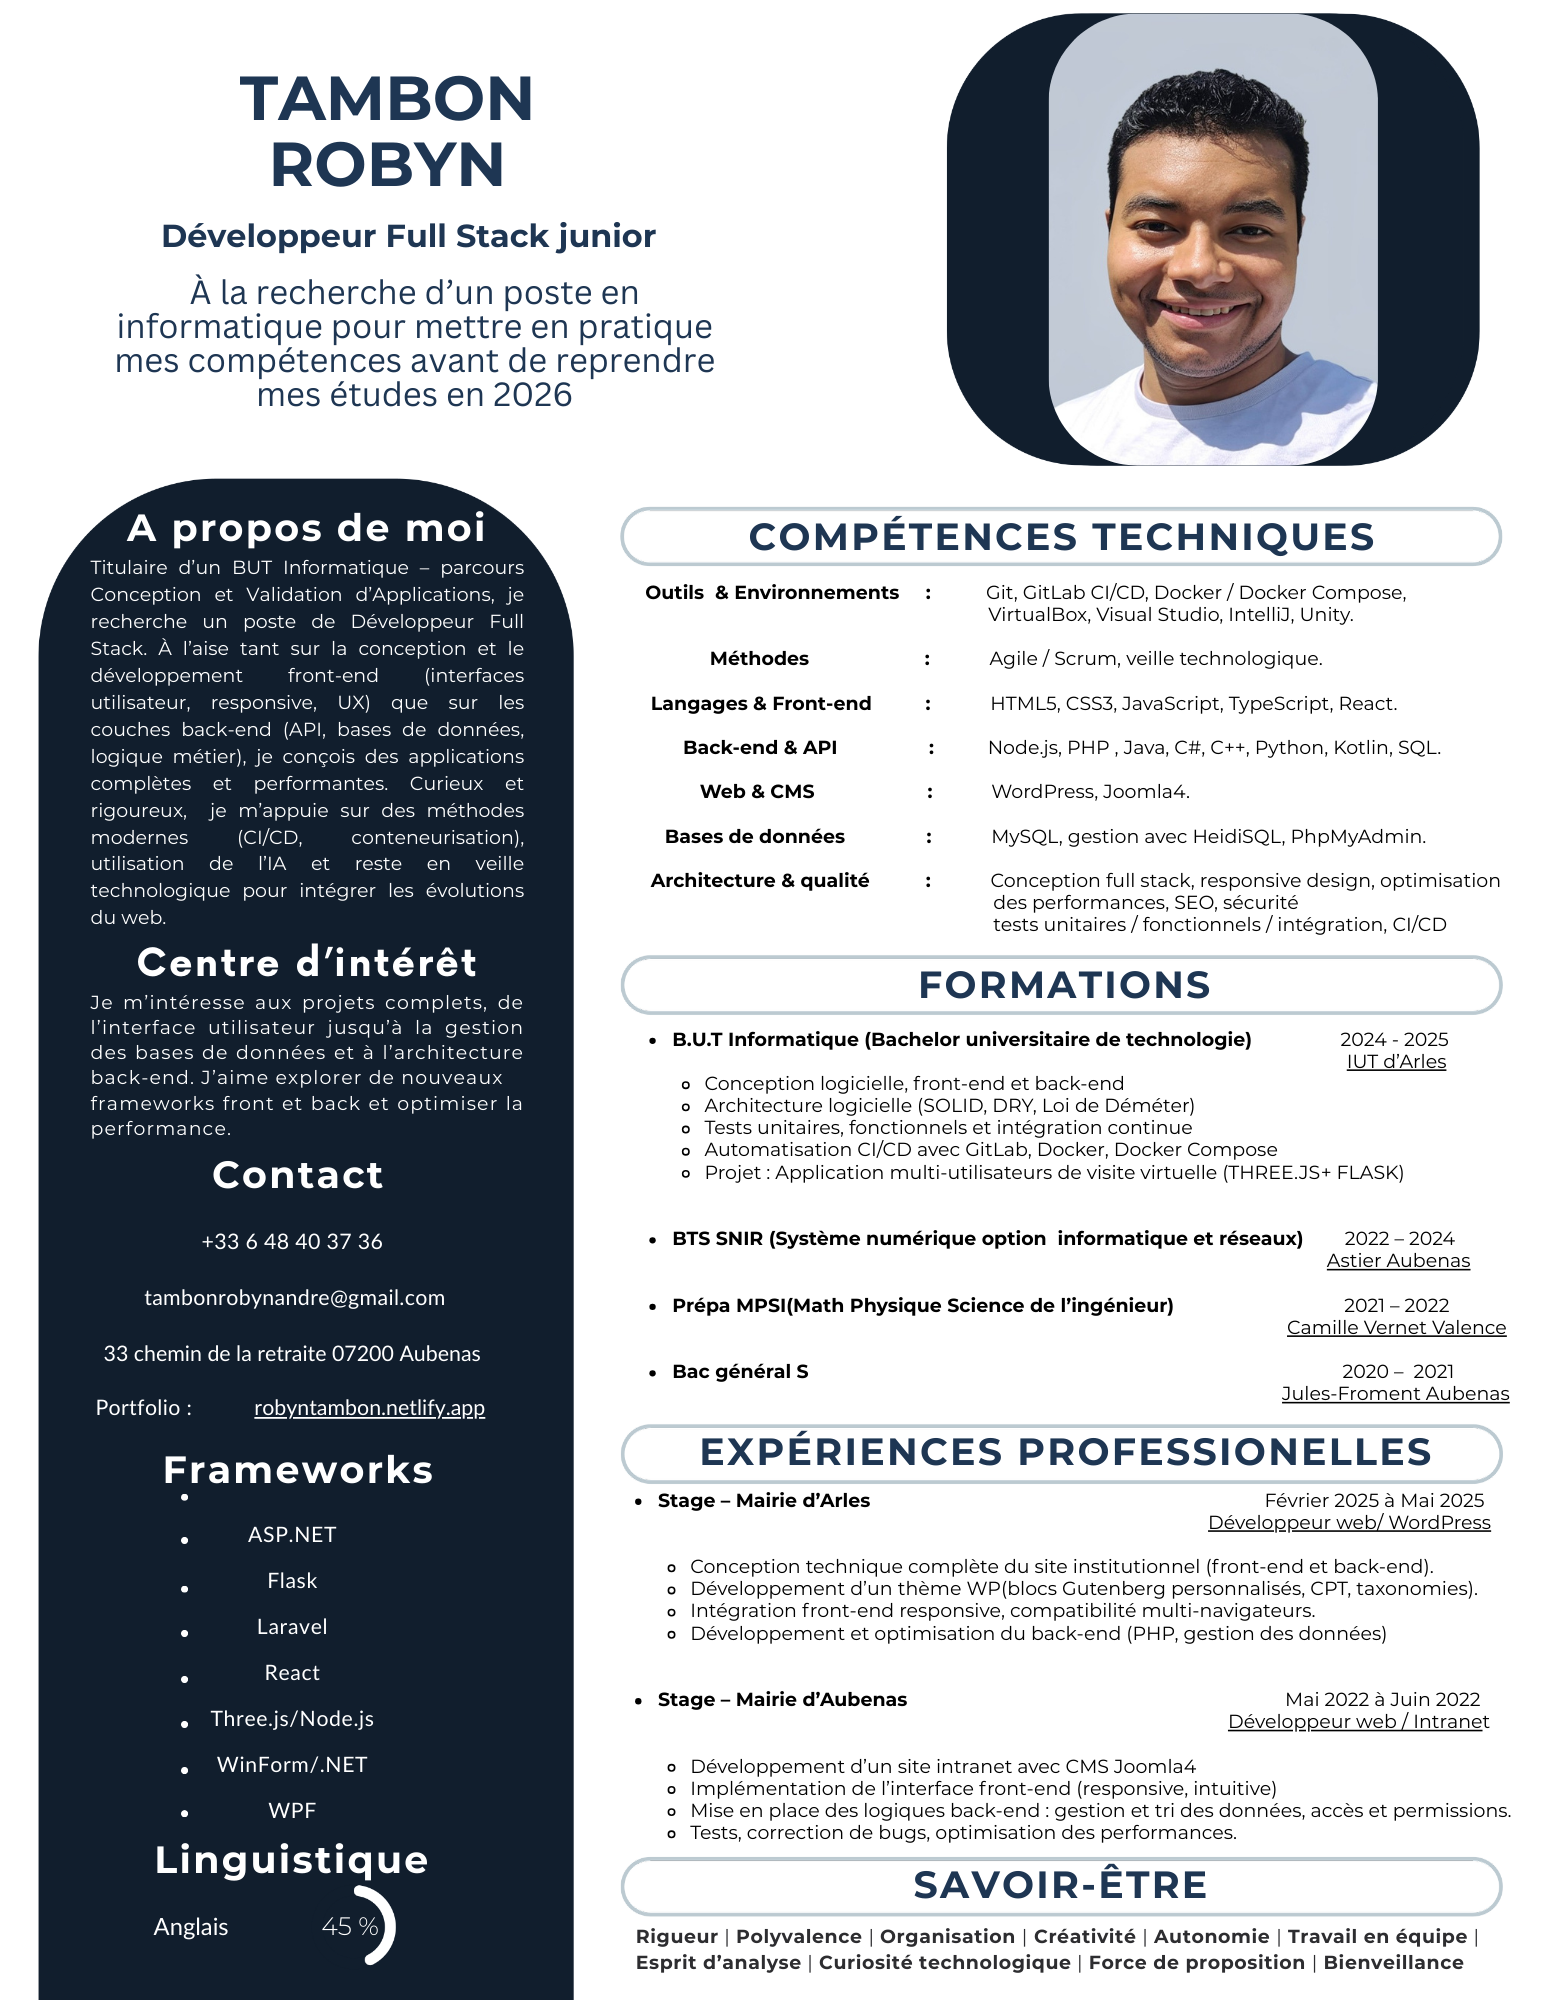
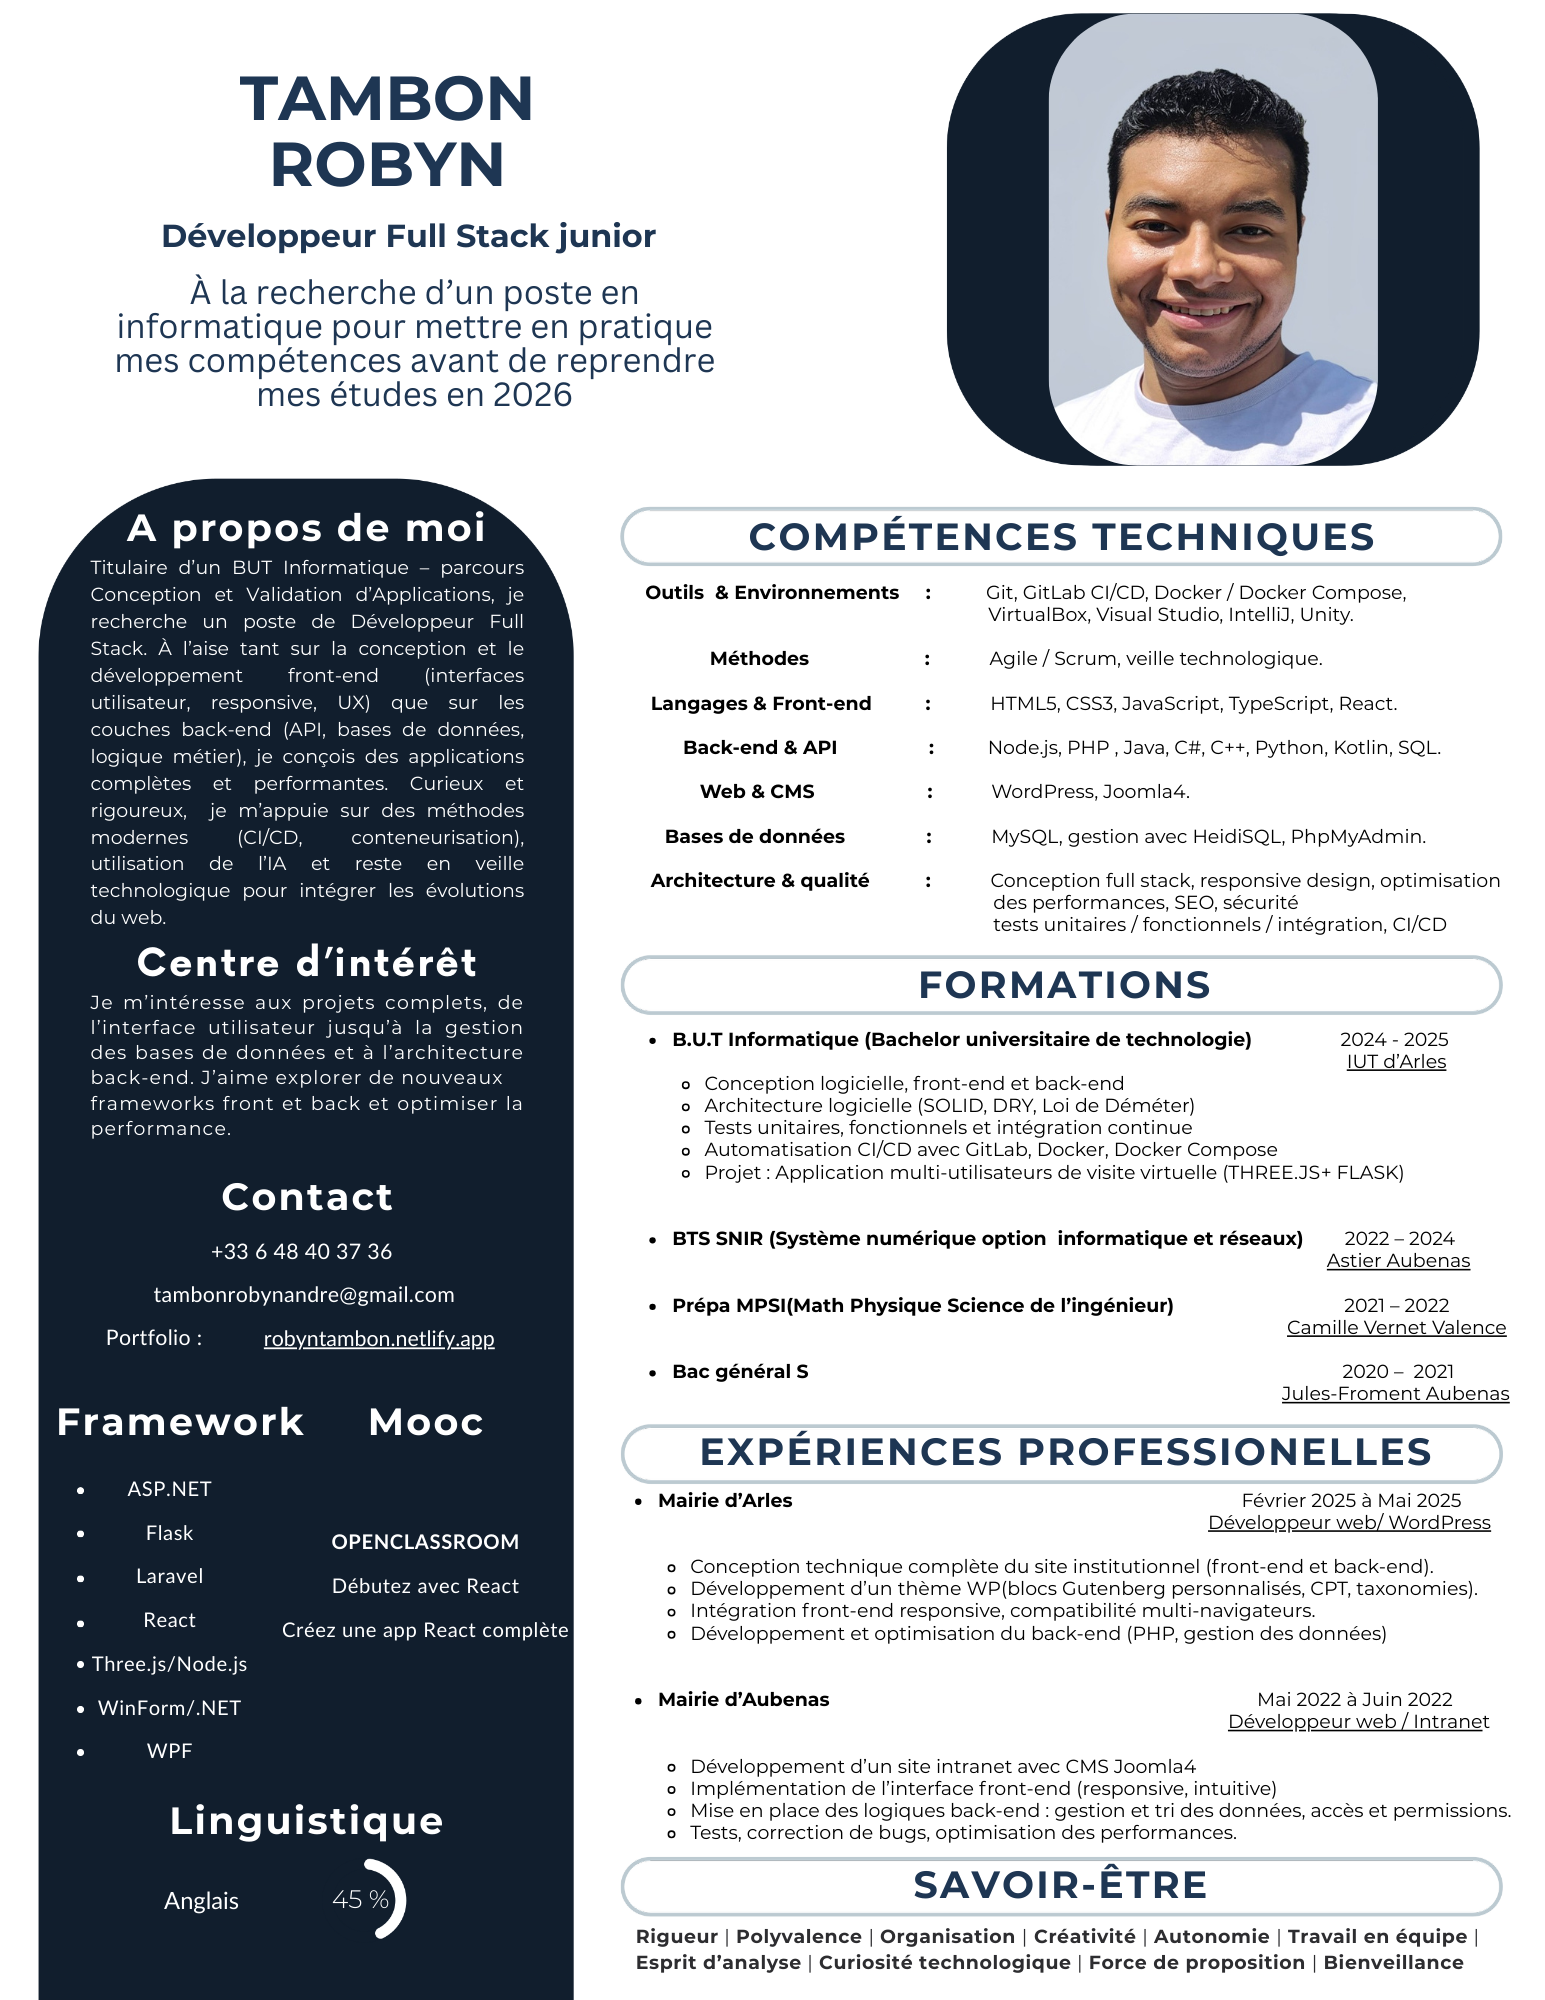
rajout cv avec mooc + correction du problème de pdf pour le rapport de stage BUT3

diff --git a/src/content/work/ValorisationCryptoportiques.md b/src/content/work/ValorisationCryptoportiques.md
@@ -21,13 +21,14 @@ gestion des niveaux de détails pour permettre l'affichage de beaucoup d'objets.
 On peut voir ici le chargement d'un objet 3D, puis je crée un groupe dans lequel je clone plusieurs fois la vache, et et l'implementation d'une caméra pour se déplacer avec (Z, Q, S, D) et de rotation avec la souris.
 Tout ça ajouté à la scène donne ceci :
 
-
+<strong><u>A visualiser sur un ordinateur</u></strong>
 <iframe src="/three/TP3/index.html" width="100%" height="500px"></iframe>
 
 Voici un autre exemple de démo où j'affiche un terrain en 3D dans le navigateur web. 
 Les données du relief sont lues à partir d'un fichier au format JSON et la texture plaquée est une orthophoto (photo aérienne orthorectifiée pour supprimer les déformations dues à la
 perspective) avec des légendes ajoutées sur le terrain et une camera spéciale de simulation de vol. On peut aussi changer la texture en appuyant sur "ECHAP".
 
+<strong><u>A visualiser sur un ordinateur</u></strong>
 <iframe src="/three/TP4/index.html" width="100%" height="500px"></iframe>
 
 ##### Les Cryptoportiques

diff --git a/src/content/work/SiteAccm.md b/src/content/work/SiteAccm.md
@@ -222,13 +222,11 @@ Bien que la mise en production ait été retardée ou annulée pour des raisons 
 
 ---
 
- <br><br><br><br>
+ <br><br>
 ##### En savoir plus sur ce projet
-<iframe
-  src="/pdf/RapportStageAccm.pdf"
-  width="100%"
-  height="930px"
-  style="border:none;"
-></iframe>
+<a href="/pdf/RapportStageAccm.pdf" target="_blank" rel="noopener">
+  Voir le rapport de stage
+</a>
+
 
 

diff --git a/src/content/work/QuizzJsVite.md b/src/content/work/QuizzJsVite.md
@@ -65,3 +65,6 @@ Le quiz est disponible en ligne à l’adresse suivante :
 - Déploiement sur GitHub Pages
 - Conception d’UI simple et responsive
 - Autonomie, auto-formation, expérimentation
+
+<br><br><br>
+Source : vidéo youtube de Melvynx
